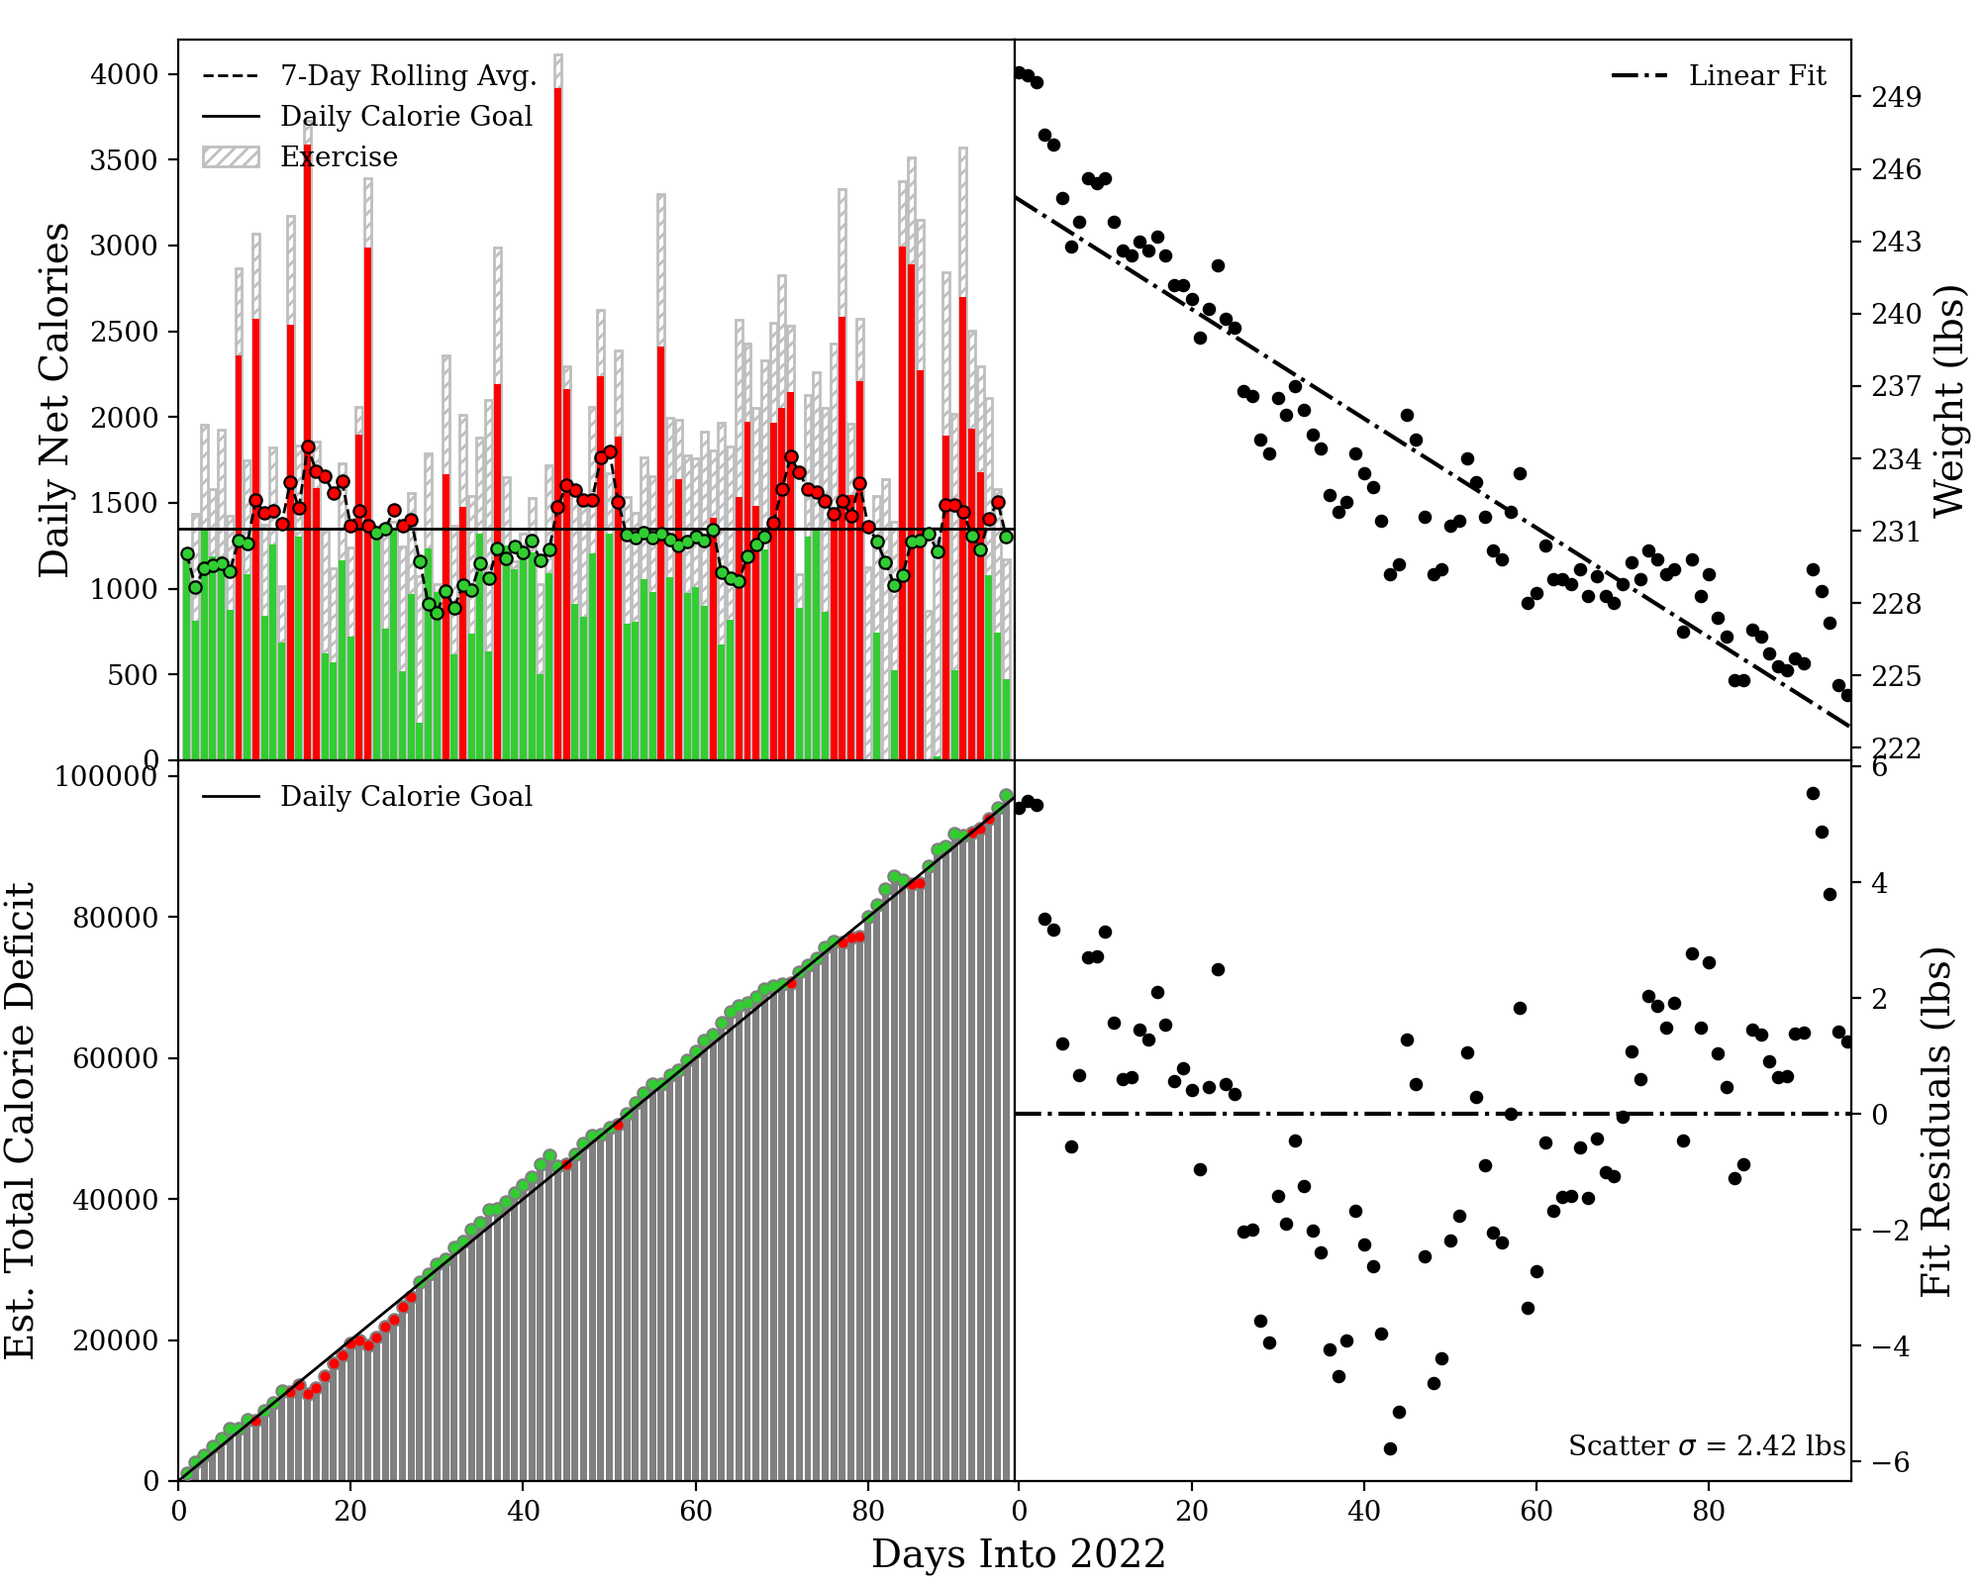
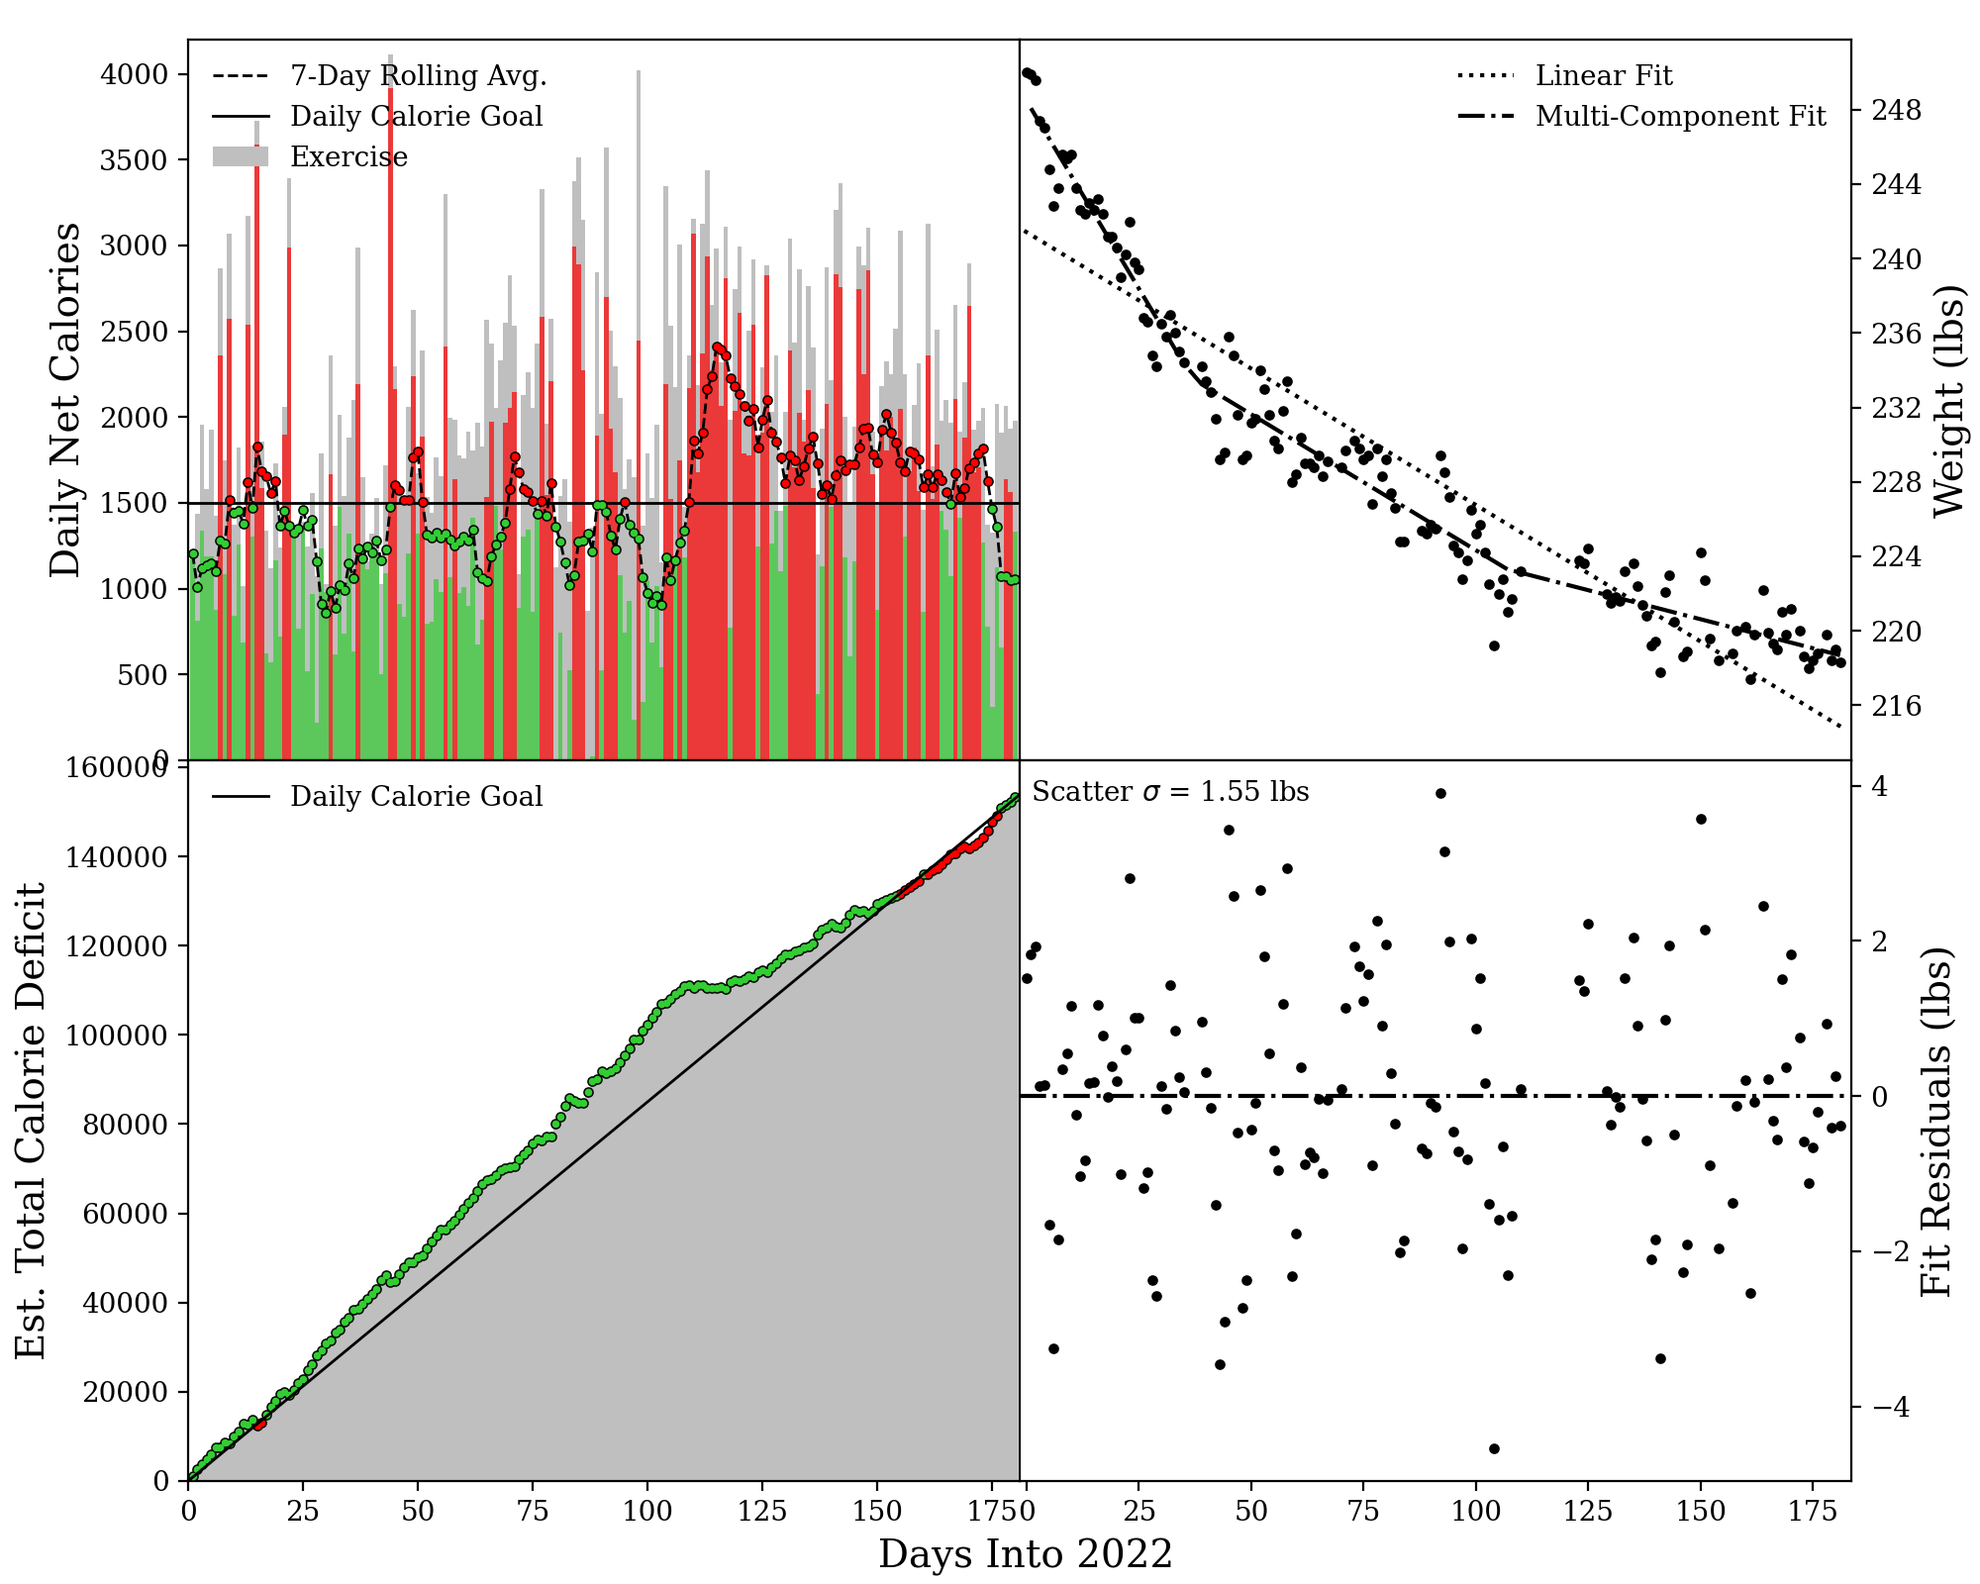
Add files via upload
Final data set, plus minor tweaks to analysis script to avoid reliance on "today"

diff --git a/Analyzer.py b/Analyzer.py
@@ -2,6 +2,7 @@ import numpy as np
 import matplotlib.pyplot as plt
 from datetime import date, timedelta
 from matplotlib.ticker import MaxNLocator
+from scipy.optimize import curve_fit
 
 # import the LinearRegression object
 from sklearn.linear_model import LinearRegression
@@ -9,52 +10,75 @@ from sklearn.linear_model import LinearRegression
 #plt.rc('text',usetex=True)
 plt.rc('font',family='serif')
 
-InitWeight = 250.0 #Weight on 12/31/2022, in lbs
+InitDate = date(2021,12,31)
+
+InitWeight = 250.0 #Weight on 12/31/2021, in lbs
 GoalWeight = 200.0 #Desired goal weight
 
 BasecCals = 2350.0 #Assumed base metabolic rate (the "2000 Calories" on the back of every snack)
-GoalCals = 1350.0 #Goal for net calories per day
+GoalCals = 1500.0 #Goal for net calories per day
 
-Dates = []
-DateInts = []
+DateIntsW = []
 Weights = []
+DateIntsC = []
 FoodCals = []
 ExerciseCals = []
 
 with open("CaloriesData.txt") as f:
     lines = f.readlines()
-    for line in lines:
-        if (not "WWWWW" in line) and (not "Food" in line): #skip header and unfilled entries
-            Weight = float( line.split()[2].replace('*','') )
-            Date = line.split()[0]
-            DateInt = int( line.split('    ')[1] )
-            if "CCCC" in line or "EEE" in line:
-                #assume that this incomplete data entry will match the prior averages
-                FoodCal = np.median(np.array( FoodCals ))
-                ExerciseCal = np.median(np.array( ExerciseCals ))
-            else:
+    for line in lines[1:]:
+        if not ("WWWWW" in line and "CCCC" in line): #skip completely unfilled entries
+            if "WWWWW" in line:
+                DateInt = int( line.split('    ')[1] )
                 FoodCal = float( line.split()[3] )
                 ExerciseCal = float( line.split()[4].replace('\n','') )
-            Dates.append(Date)
-            DateInts.append(DateInt)
-            Weights.append(Weight)
-            FoodCals.append(FoodCal)
-            ExerciseCals.append(ExerciseCal)
+                DateIntsC.append(DateInt)
+                FoodCals.append(FoodCal)
+                ExerciseCals.append(ExerciseCal)
+            elif "CCCC" in line:
+                #assume that this incomplete data entry will match the prior medians
+                Weight = float( line.split()[2])
+                #FoodCal = np.median(np.array( FoodCals ))
+                #ExerciseCal = np.median(np.array( ExerciseCals ))
+                DateInt = int( line.split('    ')[1] )
+                DateIntsW.append(DateInt)
+                Weights.append(Weight)
+                #DateIntsC.append(DateInt)
+                #FoodCals.append(FoodCal)
+                #ExerciseCals.append(ExerciseCal)
+            else:
+                #normal days with full weight and calorie data
+                Weight = float( line.split()[2])
+                DateInt = int( line.split('    ')[1] )
+                FoodCal = float( line.split()[3] )
+                ExerciseCal = float( line.split()[4].replace('\n','') )
+                DateIntsW.append(DateInt)
+                Weights.append(Weight)
+                DateIntsC.append(DateInt)
+                FoodCals.append(FoodCal)
+                ExerciseCals.append(ExerciseCal)
 
 # make data into numpy arrays for convenience
-Dates = np.array(Dates)
-DateInts = np.array(DateInts)
+DateIntsW = np.array(DateIntsW)
+DateIntsC = np.array(DateIntsC)
 Weights = np.array(Weights)
 FoodCals = np.array(FoodCals)
 ExerciseCals = np.array(ExerciseCals)
 # get net calories
 NetCals = FoodCals - ExerciseCals
 
+CurrentDate = InitDate + timedelta(days=float(max(DateIntsC)))
+CurrentMonth = CurrentDate.strftime("%B")
+CurrentDay = str(CurrentDate.day)
+CurrentYear = str(CurrentDate.year)
+
 #CurrentWeight = Weights[-1]
 #CurrentWeight = np.mean(Weights[-5:])
 CurrentWeight = min(Weights[-7:])
 print()
-print("---------- Analyzing "+str(len(DateInts))+" Days of Data ----------")
+print("---------- Analyzing "+str(len(DateIntsC))+" Days of Data ----------")
+print("Current Date: "+CurrentMonth+" "+CurrentDay+", "+CurrentYear)
+print()
 print("Starting Weight: "+str(InitWeight)+" lbs")
 print("Current Weight:  "+str(round(CurrentWeight,1))+" lbs")
 print("Goal Weight:     "+str(GoalWeight)+" lbs")
@@ -113,21 +137,25 @@ for i in range(len(NetCals)):
 
 plt.figure(figsize=(10,8.0))
 
+
 plt.subplot(2, 2, 1)
 
+cscale = 3
+bkgscale = 8
 
-plt.bar(DateInts, NetCals+ExerciseCals, edgecolor='0.75', color='1.0', hatch='/////', label="Exercise")
+#plt.bar(DateIntsC, NetCals+ExerciseCals, edgecolor='0.75', color='1.0', hatch='/////', label="Exercise", width=1.0)
+plt.bar(DateIntsC, NetCals+ExerciseCals, color='0.75', label="Exercise", width=1.0)
 for i in range(len(NetCals)):
     if NetCals[i] <= GoalCals:
-        plt.bar(DateInts[i], NetCals[i], color='limegreen')
+        plt.bar(DateIntsC[i], NetCals[i], color='limegreen', width=1.0,alpha=0.7)
     else:
-        plt.bar(DateInts[i], NetCals[i], color='red')
+        plt.bar(DateIntsC[i], NetCals[i], color='red', width=1.0,alpha=0.7)
     if NetCals_RollingAvg[i] <= GoalCals:
-        plt.scatter(DateInts[i], NetCals_RollingAvg[i], color='limegreen', s=7, zorder=50000)
+        plt.scatter(DateIntsC[i], NetCals_RollingAvg[i], color='limegreen', s=cscale, zorder=50000)
     else:
-        plt.scatter(DateInts[i], NetCals_RollingAvg[i], color='red', s=7, zorder=50000)
-plt.scatter(DateInts, NetCals_RollingAvg, color='black', s=18, zorder=50000-1)
-plt.plot(DateInts, NetCals_RollingAvg, color='black', linestyle='--', linewidth=1.0, zorder=50000-1, label="7-Day Rolling Avg.")
+        plt.scatter(DateIntsC[i], NetCals_RollingAvg[i], color='red', s=cscale, zorder=50000)
+plt.scatter(DateIntsC, NetCals_RollingAvg, color='black', s=bkgscale, zorder=50000-1)
+plt.plot(DateIntsC, NetCals_RollingAvg, color='black', linestyle='--', linewidth=1.0, zorder=50000-1, label="7-Day Rolling Avg.")
 #if np.mean(NetCals[-7:]) <= GoalCals:
 #    plt.axhline(np.mean(NetCals[-7:]), linestyle=':', color='limegreen', linewidth=1.0, label="Average Calories (Past Week)")
 #else:
@@ -141,40 +169,41 @@ plt.xticks([],fontsize=10)
 plt.yticks(fontsize=10)
 plt.ylabel("Daily Net Calories", fontsize=14)
 plt.ylim(0,4200)
-plt.xlim(min(DateInts)-1,max(DateInts)+0.99)
+plt.xlim(min(DateIntsC)-1,max(DateIntsC)+0.99)
 plt.legend(fontsize=10, loc='upper left', frameon=False)
 
 
 
 plt.subplot(2, 2, 3)
 
-x_fit = np.linspace(min(DateInts)-1,max(DateInts)+1)
+x_fit = np.linspace(min(DateIntsC)-1,max(DateIntsC)+1)
 plt.plot(x_fit, (BasecCals-GoalCals)*x_fit, linestyle='-', color='k', linewidth=1.0,label="Daily Calorie Goal", zorder=50000+1)
 
-plt.bar(DateInts, CumulativeNetCals, color='0.5')
+plt.bar(DateIntsC, CumulativeNetCals, color='0.75', width=1.0)
 
 for i in range(len(NetCals)):
     if CumulativeNetCals[i] >= (i+1)*(BasecCals-GoalCals):
-        plt.scatter(DateInts[i], CumulativeNetCals[i], color='limegreen', s=7, zorder=50000)
+        plt.scatter(DateIntsC[i], CumulativeNetCals[i], color='limegreen', s=cscale, zorder=50000)
     else:
-        plt.scatter(DateInts[i], CumulativeNetCals[i], color='red', s=7, zorder=50000)
-plt.scatter(DateInts, CumulativeNetCals, color='0.5', s=18, zorder=50000-1)
+        plt.scatter(DateIntsC[i], CumulativeNetCals[i], color='red', s=cscale, zorder=50000)
+plt.scatter(DateIntsC, CumulativeNetCals, color='k', s=bkgscale, zorder=50000-1)
 
 plt.xticks(fontsize=10)
 plt.yticks(fontsize=10)
 plt.xlabel("                                                                     Days Into 2022", fontsize=14)
 plt.ylabel("Est. Total Calorie Deficit", fontsize=14)
-plt.xlim(min(DateInts)-1,max(DateInts)+0.99)
+plt.xlim(min(DateIntsC)-1,max(DateIntsC)+0.99)
 plt.legend(fontsize=10, loc='upper left', frameon=False)
 
 
 
-loss_rate = (InitWeight-CurrentWeight) / max(DateInts)
+loss_rate = (InitWeight-CurrentWeight) / max(DateIntsC)
 print()
 print("So far you have been losing about "+str(round(loss_rate,2))+" pounds per day ("+str(round(7.0*loss_rate,2))+" pounds per week).")
 
 GoalDays = ( CurrentWeight - GoalWeight ) / loss_rate
-GoalDateObj = date.today() + timedelta(days=GoalDays)
+#GoalDateObj = date.today() + timedelta(days=GoalDays)
+GoalDateObj = InitDate + timedelta(days=float(max(DateIntsC))) + timedelta(days=GoalDays)
 GoalMonth = GoalDateObj.strftime("%B")
 GoalDay = str(GoalDateObj.day)
 print("If this trend holds, you will reach your goal weight in "+str(int(GoalDays))+" days (on "+GoalMonth+" "+GoalDay+").")
@@ -183,37 +212,69 @@ print("If this trend holds, you will reach your goal weight in "+str(int(GoalDay
 # let's fit a simple linear regression
 slr = LinearRegression(copy_X=True)
 #add the initial point data point from Dec. 31, 2021 manually
-slr.fit(np.insert(DateInts, 0, 0).reshape(-1,1), np.insert(Weights, 0, InitWeight))
+slr.fit(np.insert(DateIntsW, 0, 0).reshape(-1,1), np.insert(Weights, 0, InitWeight))
 
-dateints_fit = np.linspace(-0.5,max(DateInts)+0.5)
+dateints_fit = np.linspace(-0.5,max(DateIntsW)+0.5)
 weights_fit = slr.intercept_ + dateints_fit*slr.coef_[0]
-GoalDays = ( GoalWeight-slr.intercept_ ) / slr.coef_[0] - max(DateInts)
+#GoalDays = ( GoalWeight-slr.intercept_ ) / slr.coef_[0] - max(DateIntsW)
 
-residuals = np.insert(Weights, 0, InitWeight) - slr.predict(np.insert(DateInts, 0, 0).reshape(-1,1))
+#residuals = np.insert(Weights, 0, InitWeight) - slr.predict(np.insert(DateIntsW, 0, 0).reshape(-1,1))
+#residuals_std = np.std( residuals )
+
+
+def multi_component_line(x, m1, b1, t1, m2, t2, m3):
+    y_out = []
+    for x_in in x:
+        if x_in < t1:
+            y = m1*x_in + b1
+        elif x_in >= t1 and x_in < t2:
+            y = m2*(x_in-t1) + m1*t1 + b1
+        elif x_in >= t2:
+            y = m3*(x_in-t2) + m2*(t2-t1) + m1*t1 + b1
+        y_out.append(y)
+    return y_out
+
+mb  = [-0.5 , -0.00001]
+bb  = [50.0 , 500.0]
+t1b = [20.0 ,  60.0]
+t2b = [85.0 , 155.0]
+param_bounds = ((mb[0],bb[0],t1b[0],mb[0],t2b[0],mb[0]),(mb[1],bb[1],t1b[1],mb[1],t2b[1],mb[1]))
+init_guess = [-0.2,250.0,35.0,-0.15,100.0,-0.1]
+
+popt, pcov = curve_fit(multi_component_line, DateIntsW, Weights, p0=init_guess, bounds=param_bounds)
+
+m1_fit = popt[0]
+b1_fit = popt[1]
+t1_fit = popt[2]
+m2_fit = popt[3]
+t2_fit = popt[4]
+m3_fit = popt[5]
+
+
+multi_component_fit = multi_component_line(DateIntsW, m1_fit, b1_fit, t1_fit, m2_fit, t2_fit, m3_fit)
+
+residuals = np.insert(Weights, 0, InitWeight) - multi_component_line(np.insert(DateIntsW, 0, 0), m1_fit, b1_fit, t1_fit, m2_fit, t2_fit, m3_fit)
 residuals_std = np.std( residuals )
 
-'''
-#actually let's force the intercept to be InitWeight
-slr = LinearRegression(copy_X=True, fit_intercept=False)
-#add the initial point data point from Dec. 31, 2021 manually
-slr.fit(np.insert(DateInts, 0, 0).reshape(-1,1), np.insert(Weights, 0, InitWeight)-InitWeight)
-dateints_fit = np.linspace(-0.5,max(DateInts)+0.5)
-weights_fit = InitWeight + dateints_fit*slr.coef_[0]
-GoalDays = ( GoalWeight-InitWeight ) / slr.coef_[0] - max(DateInts)
+GoalDays = (GoalWeight-m2_fit*(t2_fit-t1_fit)-m1_fit*t1_fit-b1_fit)/m3_fit + t2_fit - max(DateIntsW)
 
-residuals = np.insert(Weights, 0, InitWeight) - slr.predict(np.insert(DateInts, 0, 0).reshape(-1,1)) - InitWeight
-residuals_std = np.std( residuals )
-'''
-
-#print()
-#print("So far you have been losing about "+str(round(-slr.coef_[0],2))+" pounds per day ("+str(round(-slr.coef_[0]*7,2))+" pounds per week).")
-
-GoalDateObj = date.today() + timedelta(days=GoalDays)
+#GoalDateObj = date.today() + timedelta(days=GoalDays)
+GoalDateObj = InitDate + timedelta(days=float(max(DateIntsC))) + timedelta(days=GoalDays)
 GoalMonth = GoalDateObj.strftime("%B")
 GoalDay = str(GoalDateObj.day)
+GoalYear = str(GoalDateObj.year)
 
 print()
-print("Based instead on an extrapolation of the plotted linear fit,"+"\n"+"you will reach your goal weight in "+str(int(GoalDays))+" days (on "+GoalMonth+" "+GoalDay+").")
+print("Multi-Component Fit:")
+print("From day 0 to day "+str(int(t1_fit))+", the loss rate is "+str(round(-m1_fit,3))+" lbs/day ("+str(round(-7*m1_fit,2))+" lbs/week)")
+print("From day "+str(int(t1_fit))+" to day "+str(int(t2_fit))+", the loss rate is "+str(round(-m2_fit,3))+" lbs/day ("+str(round(-7*m2_fit,2))+" lbs/week)")
+print("From day "+str(int(t2_fit))+" onward, the loss rate is "+str(round(-m3_fit,3))+" lbs/day ("+str(round(-7*m3_fit,2))+" lbs/week)")
+
+print()
+if GoalDays + max(DateIntsW) > 365.0:
+    print("Based instead on an extrapolation of the multi-component fit described above,"+"\n"+"you will reach your goal weight in "+str(int(GoalDays))+" days (on "+GoalMonth+" "+GoalDay+", "+GoalYear+").")
+else:
+    print("Based instead on an extrapolation of the multi-component fit described above,"+"\n"+"you will reach your goal weight in "+str(int(GoalDays))+" days (on "+GoalMonth+" "+GoalDay+").")
 
 print()
 print("You're doing great! Keep up the good work! :)")
@@ -222,15 +283,19 @@ print()
 
 plt.subplot(2, 2, 2)
 
-#plt.scatter(DateInts, Weights, color='k', marker='o', s=15)
+wscale = 8
+
+
+#plt.scatter(DateIntsW, Weights, color='k', marker='o', s=15)
 #add the initial point data point from Dec. 31, 2021 manually
-plt.scatter(np.insert(DateInts, 0, 0), np.insert(Weights, 0, InitWeight), color='k', marker='o', s=15)
-plt.plot(dateints_fit, weights_fit, color='k', linestyle='-.', linewidth=1.5, label="Linear Fit")
+plt.scatter(np.insert(DateIntsW, 0, 0), np.insert(Weights, 0, InitWeight), color='k', marker='o', s=wscale)
+plt.plot(dateints_fit, weights_fit, color='k', linestyle=':', linewidth=1.5, label="Linear Fit")
+plt.plot(DateIntsW, multi_component_fit, color='k', linestyle='-.', linewidth=1.5, label="Multi-Component Fit")
 #plt.axhline(GoalWeight, linestyle='-', color='gold', linewidth=1.5, label="Goal Weight")
 plt.xticks([],fontsize=10)
 plt.yticks(fontsize=10)
 plt.ylabel("Weight (lbs)", fontsize=14)
-plt.xlim(min(DateInts)-1.5,max(DateInts)+0.5)
+plt.xlim(min(DateIntsW)-2.5,max(DateIntsW)+2.5)
 plt.gca().yaxis.set_ticks_position("right")
 plt.gca().yaxis.set_label_position("right")
 plt.gca().yaxis.set_major_locator(MaxNLocator(integer=True))
@@ -239,18 +304,19 @@ plt.legend(fontsize=10, loc='upper right', frameon=False)
 
 plt.subplot(2, 2, 4)
 
-plt.text(max(DateInts), min(residuals), "Scatter $\sigma$ = "+str(round(residuals_std,2))+" lbs",
-        ha='right', va='center', fontsize=10)
+plt.text(min(DateIntsW), max(residuals),
+        "Scatter $\sigma$ = "+str(round(residuals_std,2))+" lbs",
+        ha='left', va='center', fontsize=10)
 
-plt.scatter(np.insert(DateInts, 0, 0), residuals, color='k', marker='o', s=15)
+plt.scatter(np.insert(DateIntsW, 0, 0), residuals, color='k', marker='o', s=wscale)
 plt.axhline(0, color='k', linestyle='-.', linewidth=1.5)
 plt.xticks(fontsize=10)
 plt.yticks(fontsize=10)
 plt.ylabel("Fit Residuals (lbs)", fontsize=14)
-plt.xlim(min(DateInts)-1.5,max(DateInts)+0.5)
+plt.xlim(min(DateIntsW)-2.5,max(DateIntsW)+2.5)
 plt.gca().yaxis.set_ticks_position("right")
 plt.gca().yaxis.set_label_position("right")
 
-plt.subplots_adjust(left=0.09, bottom=0.065, right=0.935, top=0.975, wspace=0, hspace=0)
+plt.subplots_adjust(left=0.095, bottom=0.065, right=0.935, top=0.975, wspace=0, hspace=0)
 plt.savefig('OutputImage.png',dpi=200)
 plt.show()
